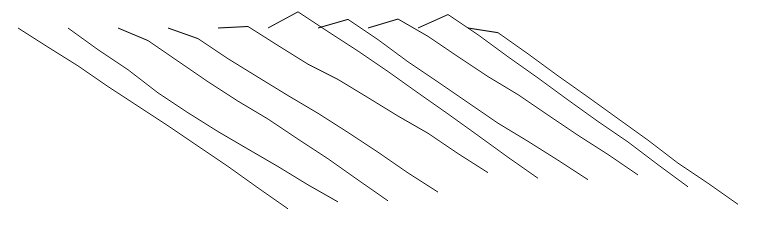
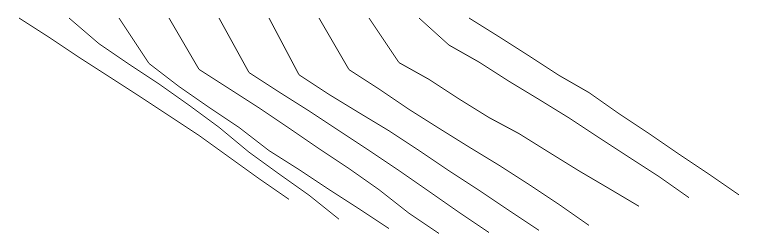
Updated simple-3d example output image and caption

diff --git a/README.md b/README.md
@@ -11,7 +11,7 @@ Experimenting with Canvas with the end goal to produce 3D landscapes.
 <img width="100%" src="https://raw.github.com/peterwallhead/fractal-terrain/master/images/simple-2d.png" />
 
 #### From [examples/simple-3d.html] (https://github.com/peterwallhead/fractal-terrain/blob/master/examples/simple-3d.html)
-
+*Not a very good example, but you get the idea*
 <img width="100%" src="https://raw.github.com/peterwallhead/fractal-terrain/master/images/simple-3d.png" />
 
 #### From [examples/simple-mesh.html] (https://github.com/peterwallhead/fractal-terrain/blob/master/examples/simple-mesh.html)
